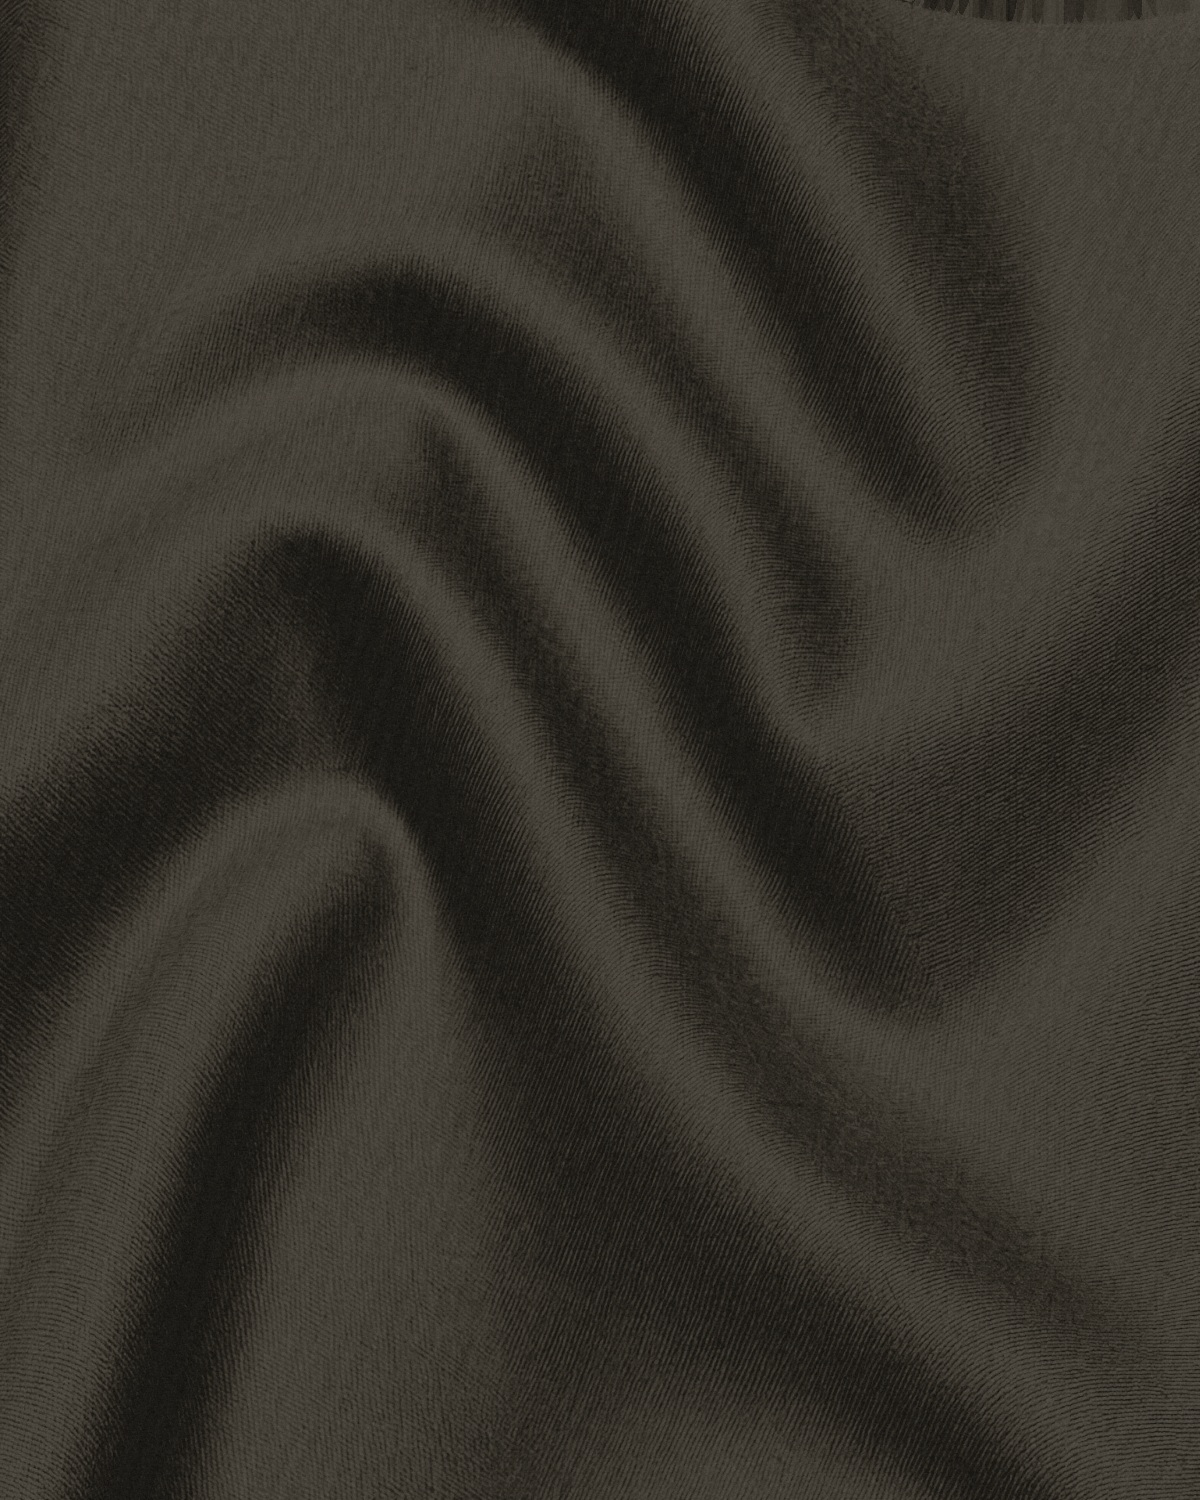
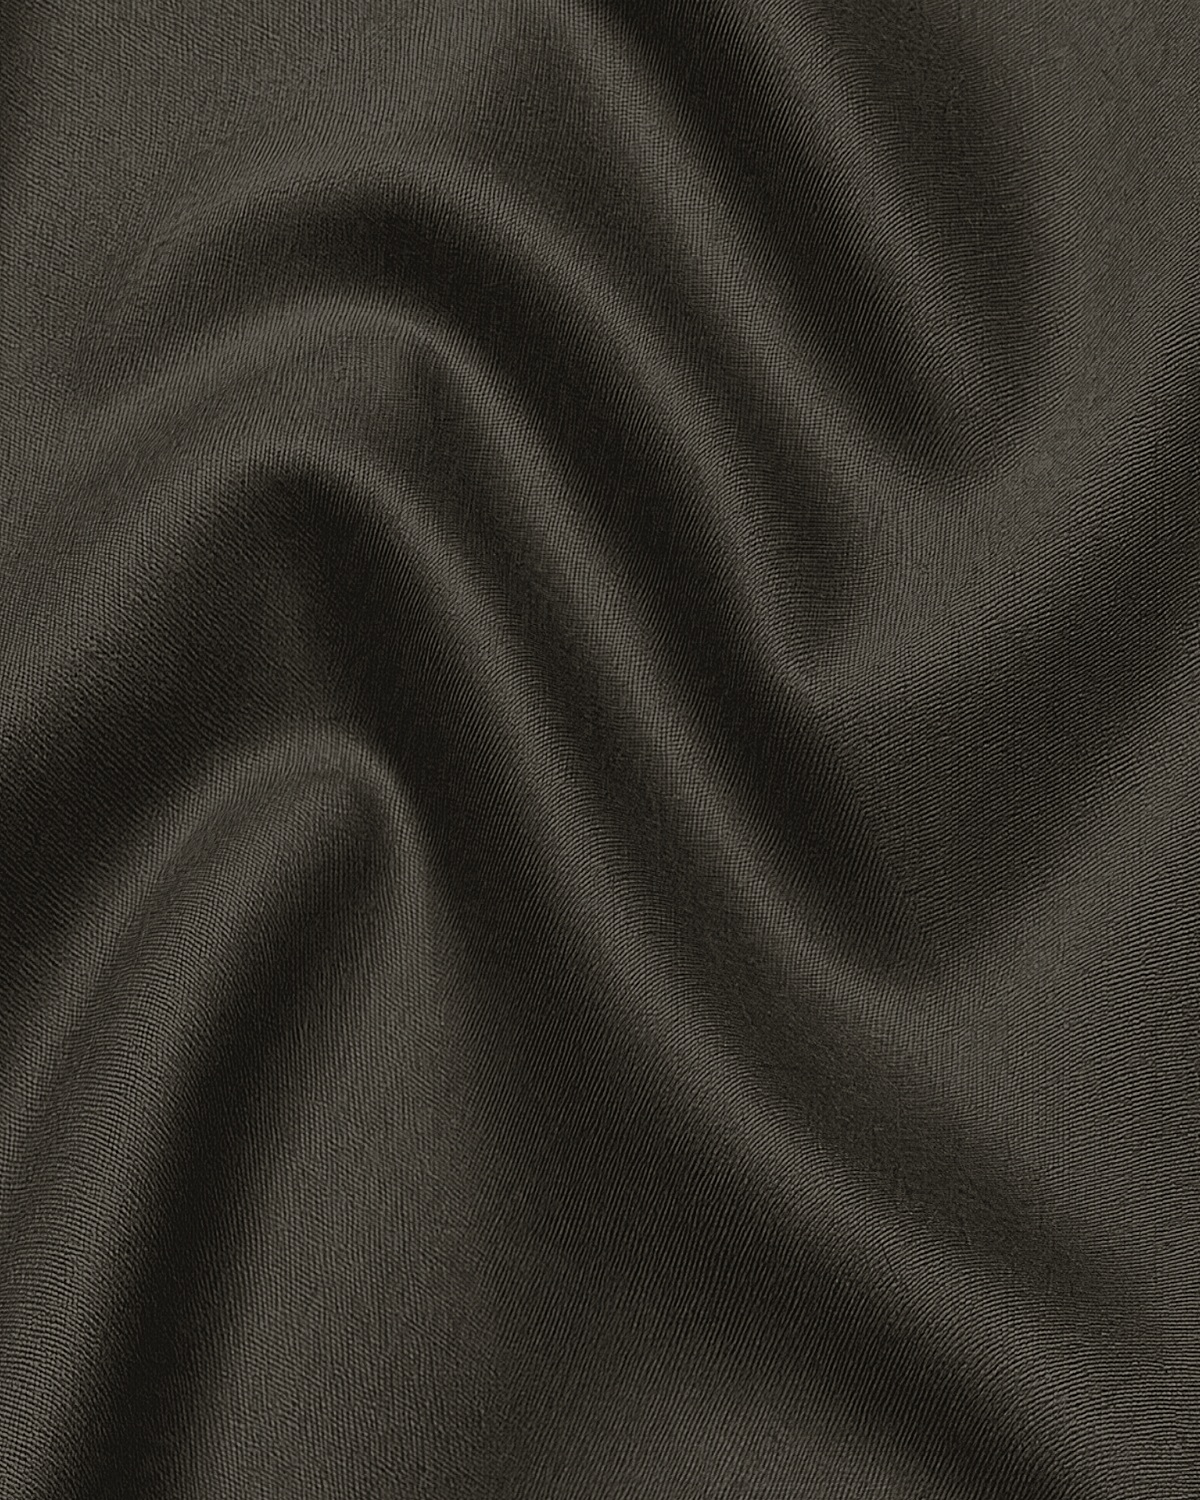
Use Noir midnight navy for the collection cover and Tropical cloth texture.
Point Noir cards at Neel (midnight navy) and restyle Noir/Heritage shades with
Tropical Signature weave while keeping each shade’s existing colour.

diff --git a/src/data/catalog.ts b/src/data/catalog.ts
@@ -57,7 +57,7 @@ export const collections: Collection[] = [
     name: "The Noir",
     description: "Four dark shades for sharp formal silhouettes — jet black, ink black, deep charcoal, and midnight navy.",
     category: "unstitched_fabric",
-    imageSrc: "/catalogue/noir/fea-04-01-studio.jpg",
+    imageSrc: "/catalogue/noir/fea-04-04-studio.jpg",
     sortOrder: 4,
   },
   {

diff --git a/src/data/demo-home.ts b/src/data/demo-home.ts
@@ -53,7 +53,7 @@ export const demoCollections = [
     slug: "noir",
     name: "The Noir",
     detail: "Jet, ink, charcoal, and navy for formal depth.",
-    image: "/catalogue/noir/fea-04-01-studio.jpg",
+    image: "/catalogue/noir/fea-04-04-studio.jpg",
   },
 ];
 
